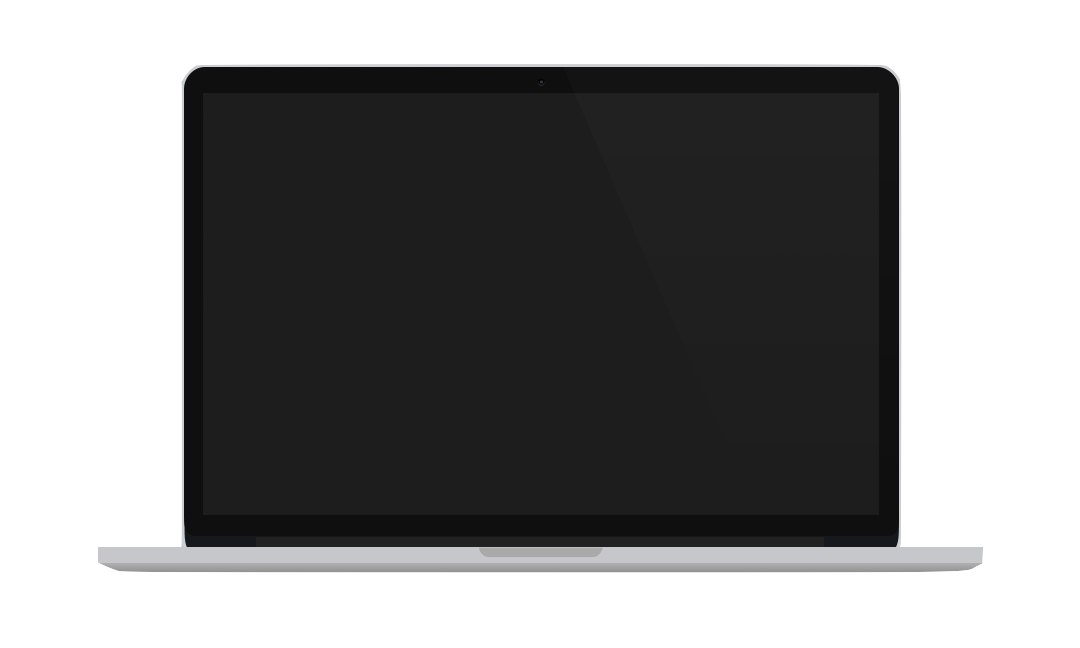
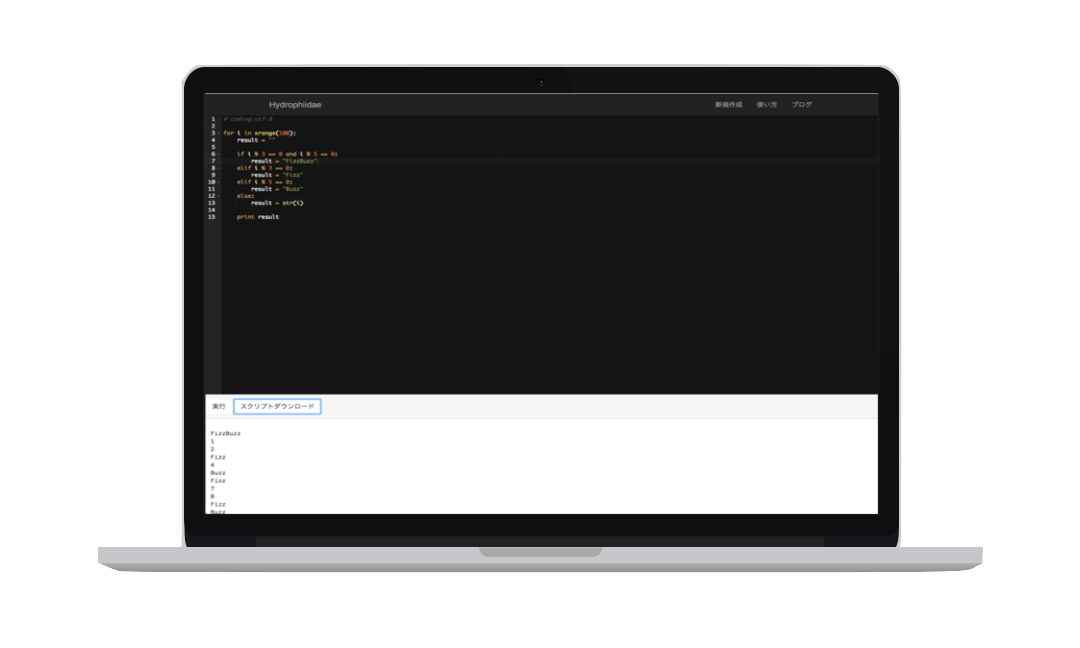
基本機能は完成

Changed region(s): [[0.1833, 0.5864, 0.825, 0.8025], [0.1833, 0.1543, 0.3056, 0.3395], [0.6722, 0.1543, 0.7639, 0.1852]]

diff --git a/app/templates/index.html b/app/templates/index.html
@@ -5,11 +5,11 @@
 {% block body %}
 <section id="top">
 <div class="container">
-    <div clss="row">
+    <div clss="row　jumbotron">
         <div id="head" class="col-xs-6">
             <h2>ブラウザ１つでpythonプログラミング!!</h2>
             <p>Hydrophiidaeはブラウザ１つでpythonプログラミングが始められる。</p><p>オンラインpythonエディタです。</p>
-            <a href="" class="btn btn-lg btn-success" role="button">今すぐ始める</a>
+            <a href="./editor" class="btn btn-lg btn-success" role="button">今すぐ始める</a>
         </div>
         <div class="col-xs-6">
             <img src="{{ url_for('static', filename='image/MiniLapTop.png') }}" style="width: 640px; height: 424px;">
@@ -46,45 +46,45 @@
         </div><!-- /.row -->
     </div>
 </section>
-<section>
+<section id="about">
 <div class="container">
     <hr class="featurette-divider">
-    <div class="row featurette">
+    <div class="row featurette" >
         <div class="col-md-7">
-          <h2 class="featurette-heading">First featurette heading. <span class="text-muted">It'll blow your mind.</span></h2>
-          <p class="lead">Donec ullamcorper nulla non metus auctor fringilla. Vestibulum id ligula porta felis euismod semper. Praesent commodo cursus magna, vel scelerisque nisl consectetur. Fusce dapibus, tellus ac cursus commodo.</p>
+          <h2 class="featurette-heading">操作は簡単!!コードを入力して実行するだけ</h2>
+          <p class="lead">使い方は簡単。エディタ内にコードを打ち込み、実行ボタンを押すだけ。複雑な操作は一切無いので学習に集中できます。</p>
         </div>
         <div class="col-md-5">
-          <img class="featurette-image img-responsive" data-src="holder.js/500x500/auto" alt="Generic placeholder image">
+          <img class="featurette-image img-responsive" src="{{ url_for('static', filename='image/about.png') }}" alt="Generic placeholder image">
         </div>
       </div>
 
       <hr class="featurette-divider">
       <div class="row featurette">
         <div class="col-md-5">
-          <img class="featurette-image img-responsive" data-src="holder.js/500x500/auto" alt="Generic placeholder image">
+          <img class="featurette-image img-responsive" src="{{ url_for('static', filename='image/download.png') }}" alt="Generic placeholder image">
         </div>
         <div class="col-md-7">
-          <h2 class="featurette-heading">Oh yeah, it's that good. <span class="text-muted">See for yourself.</span></h2>
-          <p class="lead">Donec ullamcorper nulla non metus auctor fringilla. Vestibulum id ligula porta felis euismod semper. Praesent commodo cursus magna, vel scelerisque nisl consectetur. Fusce dapibus, tellus ac cursus commodo.</p>
+          <h2 class="featurette-heading">ファイル保存機能搭載</h2>
+          <p class="lead">打ち込んだコードはスクリプトダウンロードボタンで自分のPCに保存ができます。保存したファイルはpythonの実行環境があればそのまま実行することができます。</p>
         </div>
       </div>
 
       <hr class="featurette-divider">
       <div class="row featurette">
         <div class="col-md-7">
-          <h2 class="featurette-heading">And lastly, this one. <span class="text-muted">Checkmate.</span></h2>
-          <p class="lead">Donec ullamcorper nulla non metus auctor fringilla. Vestibulum id ligula porta felis euismod semper. Praesent commodo cursus magna, vel scelerisque nisl consectetur. Fusce dapibus, tellus ac cursus commodo.</p>
+          <h2 class="featurette-heading">シンタックスハイライト搭載</h2>
+          <p class="lead">メソッドや変数が色分けされているのでコードが非常に見やすくなっています。</p>
         </div>
         <div class="col-md-5">
-          <img class="featurette-image img-responsive" data-src="holder.js/500x500/auto" alt="Generic placeholder image">
+          <img class="featurette-image img-responsive" src="{{ url_for('static', filename='image/syntax.png') }}" alt="Generic placeholder image">
         </div>
       </div>
 
       <hr class="featurette-divider">
       <footer>
             <p class="pull-right"><a href="#">Back to top</a></p>
-            <p>&copy; 2014 Company, Inc. &middot; <a href="#">Privacy</a> &middot; <a href="#">Terms</a></p>
+            <p>&copy; 2014 Hydrophiidae.</p>
       </footer>
 </div>
 </section>

diff --git a/app/templates/editor.html b/app/templates/editor.html
@@ -6,7 +6,7 @@
 {% block body %}
 <div class="row text-left" id="editor_body">
     <div id="editor" style="height: 100%; width: 100%"></div>
-        <script src="../static/ace/src-min-noconflict/ace.js" type="text/javascript" charset="utf-8"></script>
+        <script src="{{ url_for('static', filename='ace/src/ace.js')}}" type="text/javascript" charset="utf-8"></script>
         <script>
             var editor = ace.edit("editor");
             editor.setTheme("ace/theme/twilight");
@@ -32,26 +32,30 @@
 
             function downloadFile(){
                 var script = editor.getValue();
-                var filename = 'test';
+                var filename = window.prompt("ファイル名を入力してください", "");
 
-                var form = document.createElement("form");
-                var s_input = document.createElement("input");
-                var f_input = document.createElement("input");
+                if(filename){
+                    var form = document.createElement("form");
+                    var s_input = document.createElement("input");
+                    var f_input = document.createElement("input");
 
-                form.action = '../download';
-                form.method = 'post';
+                    form.action = '../download';
+                    form.method = 'post';
 
-                s_input.type = 'hidden';
-                s_input.name = 'script';
-                s_input.value = script;
+                    s_input.type = 'hidden';
+                    s_input.name = 'script';
+                    s_input.value = script;
 
-                f_input.type = 'hidden';
-                f_input.name = 'file_name';
-                f_input.value = filename;
+                    f_input.type = 'hidden';
+                    f_input.name = 'file_name';
+                    f_input.value = filename;
 
-                form.appendChild(s_input);
-                form.appendChild(f_input);
-                form.submit();
+                    form.appendChild(s_input);
+                    form.appendChild(f_input);
+                    form.submit();
+                }else{
+                    alert("ファイル名が入力されていません");
+                }
             }
         </script>
     </div>
@@ -60,7 +64,7 @@
     <div class="panel panel-default text-left" style="height: 100%; width: 100%">
           <div class="panel-heading"><button type="button" class="btn btn-default" onClick="runScript()">実行</button>
               <button type="button" class="btn btn-default" onClick="downloadFile()">スクリプトダウンロード</button></div>
-          <pre class="panel-body" id="out_put"></pre>
+          <div class="panel-body"><pre id="out_put" class="pre-scrollable"></pre></div>
     </div>
 </div>
 {% endblock %}

diff --git a/app/templates/layout.html b/app/templates/layout.html
@@ -8,8 +8,6 @@
     <meta name="description" content="">
     <meta name="author" content="">
     <link rel="icon" href="">
-
-    <title>Cover Template for Bootstrap</title>
     <!--[if lt IE 9]>
     <script src="https://oss.maxcdn.com/html5shiv/3.7.2/html5shiv.min.js"></script>
     <script src="https://oss.maxcdn.com/respond/1.4.2/respond.min.js"></script>
@@ -31,14 +29,14 @@
                 <span class="icon-bar"></span>
                 <span class="icon-bar"></span>
               </button>
-              <a class="navbar-brand" href="http://127.0.0.1:5000">Hydrophiidae</a>
+              <a class="navbar-brand" href="/">Hydrophiidae</a>
             </div>
 
             <div id="navbar" class="navbar-collapse collapse">
                 <ul class="nav navbar-nav pull-right">
-                    <li><a href="http://127.0.0.1:5000/editor">新規作成</a></li>
-                    <li><a href="#about">About</a></li>
-                    <li><a href="#contact">Blog</a></li>
+                    <li><a href="{{ url_for('editor') }}">新規作成</a></li>
+                    <li><a href="/#about">使い方</a></li>
+                    <li><a href="#contact">ブログ</a></li>
                 </ul>
             </div>
           </div>

diff --git a/app/static/style.css b/app/static/style.css
@@ -3,12 +3,32 @@ body{
     padding-top: 50px;
 }
 
+@-webkit-keyframes anim {
+    0%   { opacity: 0; }
+    100% { opacity: 1; }
+}
+
+@keyframes anim{
+    0%   { opacity: 0; }
+    100% { opacity: 1; }
+}
+
+section{
+    -webkit-animation: anim 1.5s;
+    animation: anim 1.5s;
+}
+
 #editor_body{
     height: 70%;
 }
 
 #output{
     height: 30%;
+}
+
+pre{
+    background-color: #FFFFFF;
+    border: 0px;
 }
 
 #top{

diff --git a/app/static/cover.css b/app/static/cover.css
@@ -32,7 +32,7 @@ body {
 body {
   color: #fff;
   text-align: center;
-  text-shadow: 0 1px 3px rgba(0,0,0,.5);
+  /*text-shadow: 0 1px 3px rgba(0,0,0,.5);*/
 }
 
 /* Extra markup and styles for table-esque vertical and horizontal centering */

diff --git a/app/route.py b/app/route.py
@@ -47,4 +47,5 @@ def read_file(file_name):
     return r
 
 if __name__ == '__main__':
-    app.run(debug=True)
+    app = Flask(__name__)
+    app.config['DEBUG'] = True
